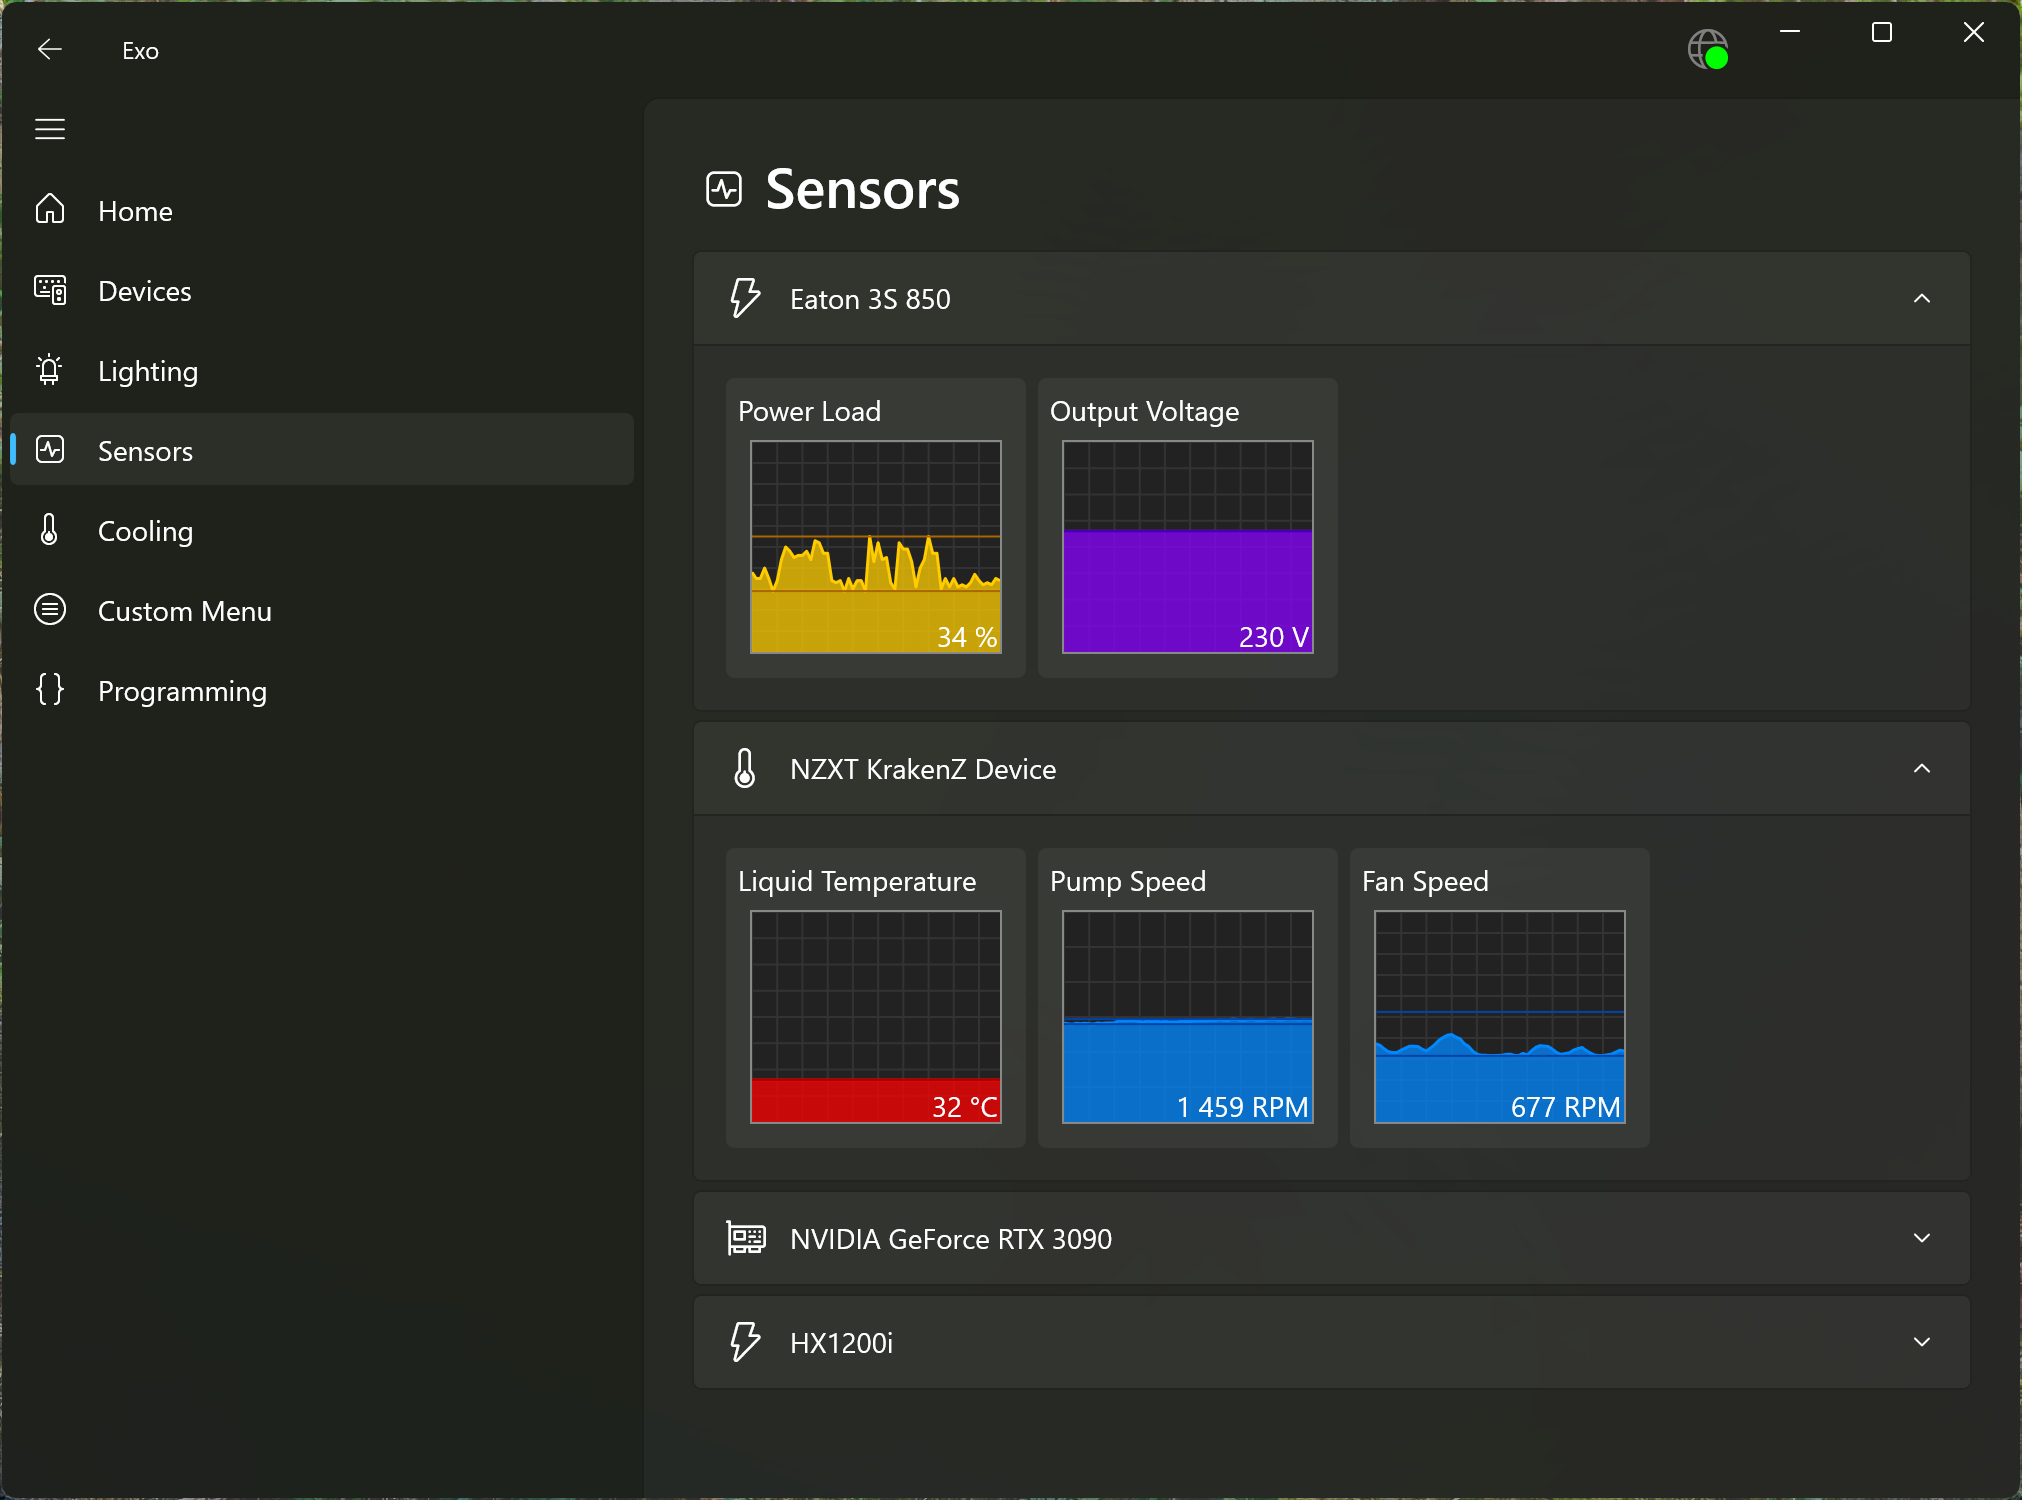
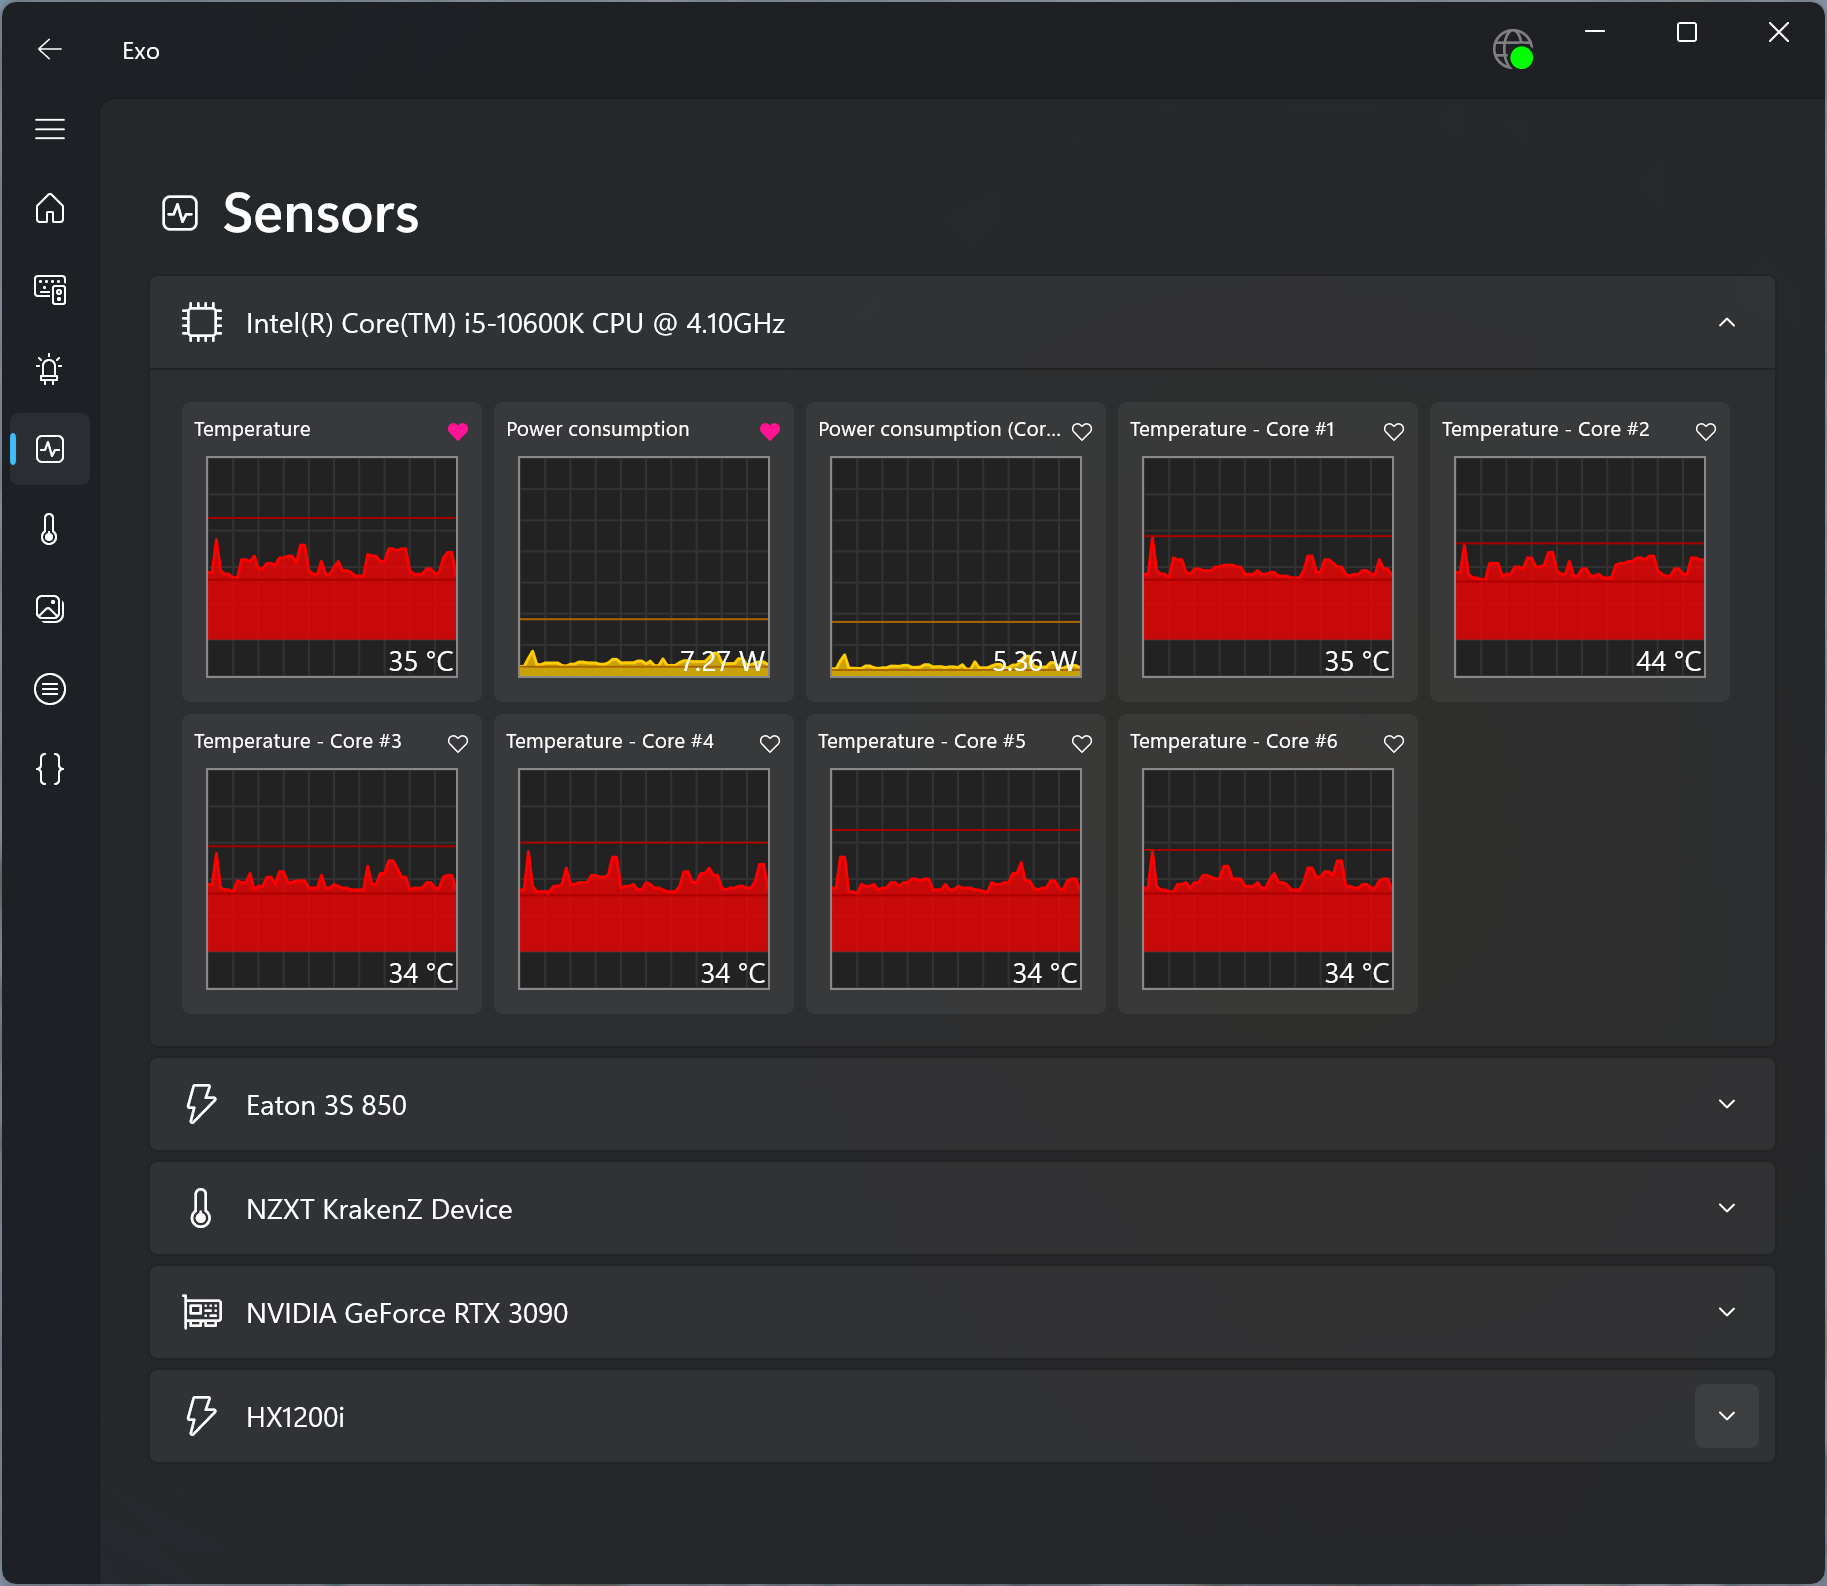
📝 Update documentation.

diff --git a/index.md b/index.md
@@ -4,7 +4,7 @@ Exo may be your solution!
 
 Exo is a lightweight background service provided with a nice modern Windows UI, that will manage the features of your devices without sacrificing excessive amounts of memory and CPU.
 
-With Exo, you will be able get rid of many apps on your computer and save up your precious RAM and CPU power.
+With Exo, you will be able get rid of many apps on your computer and reclaim your precious RAM and CPU power.
 
 You can check the [Supported Devices](devices.md) page to see if your device(s) are supported.
 
@@ -14,20 +14,23 @@ Download [a release](https://github.com/hexawyz/Exo/releases) on GitHub. ([Autom
 
 # Prerequisites
 
-* [.NET 9.0.200 runtime](https://dotnet.microsoft.com/en-us/download/dotnet/9.0)
-* [Windows App SDK 1.6.5 Runtime](https://aka.ms/windowsappsdk/1.6/1.6.250205002/windowsappruntimeinstall-x64.exe)
+* [.NET 9.0.202 runtime](https://dotnet.microsoft.com/en-us/download/dotnet/9.0)
+* [Windows App SDK 1.7 Runtime](https://aka.ms/windowsappsdk/1.7/1.7.250310001/windowsappruntimeinstall-x64.exe)
+* [PawnIO 2.0.0](https://github.com/namazso/PawnIO.Setup/releases/download/2.0.0/PawnIO_setup.exe) (Driver used for access to low-level devices)
 
 # Features
 
-## Quick Battery Summary and Lamp controls on the Home Page
+## Home Page with quick access to useful features
 
 ![Screenshot of the Home Page](images/Screenshot-Exo-Home.png)
 
-Something that you may miss is the ability to quickly check the battery state of your devices.
-Exo provides that on its home page, so that this is the first thing you see when opening the app.
+Trying to be the most immediately useful possible, the home page will display the following:
 
-Exo also allows quick access to your lamp devices from the Home Page.
-These settings can also be accessed from the specific device page.
+* The battery state of your devices, so that you can quickly know how well off you are.
+* All sensors that you will have manually picked as favorites.
+* Controls for lamp devices.
+
+All of these informations are also available in other parts of the application.
 
 ## Notifications
 
@@ -155,7 +158,9 @@ Exo has support for listening to hardware device sensors.
 
 This is mainly used for low-level devices such as a GPU or a PSU, but being able to take a quick look of the status of your devices should be useful.
 
-More importantly, having a wide source of sensors is necessary to support software cooling curves.
+You can pick any of these sensors as a favorite for it to be displayed on the homepage.
+
+Some of the sensors showed here may also be usable as a source to create software cooling curves.
 
 ## Cooling
 
@@ -183,5 +188,8 @@ Notably, this component is strictly required to be running in order to support m
 
 ![Screenshot from Task Manager running Exo](images/Screenshot-TaskManager-Exo-Resources.png)
 
-As you can see on the screenshot above, Exo memory consumption is pretty reasonable, topping at about 43 MB of exclusive memory for the background service.
+As you can see on the screenshot above, Exo memory consumption is pretty reasonable, topping at about 33 MB of exclusive memory for the background service and 82MB of shared memory.
 This is all while handling more devices and combined features than the software you would typically use for a single device.
+
+Of course, the numbers shown here are purely indicative, and memory usage wil vary over time.
+Also, systems with less supported devices may see even less memory being used (e.g. less than 10MB of private memory)

diff --git a/devices.md b/devices.md
@@ -594,6 +594,26 @@
   </tr>
   <tr>
     <td>Intel</td>
+    <td>CPU</td>
+    <td>Various</td>
+    <td>MB</td>
+    <td>8086:*</td>
+    <td>✔</td>
+    <td colspan="3"></td>
+    <td colspan="3"></td>
+    <td colspan="3"></td>
+    <td colspan="3"></td>
+    <td colspan="3"></td>
+    <td colspan="2"></td>
+    <td colspan="4"></td>
+    <td>✔</td>
+    <td colspan="2"></td>
+    <td></td>
+    <td></td>
+    <td></td>
+  </tr>
+  <tr>
+    <td>Intel</td>
     <td>GPU</td>
     <td>Various</td>
     <td>PCI</td>
